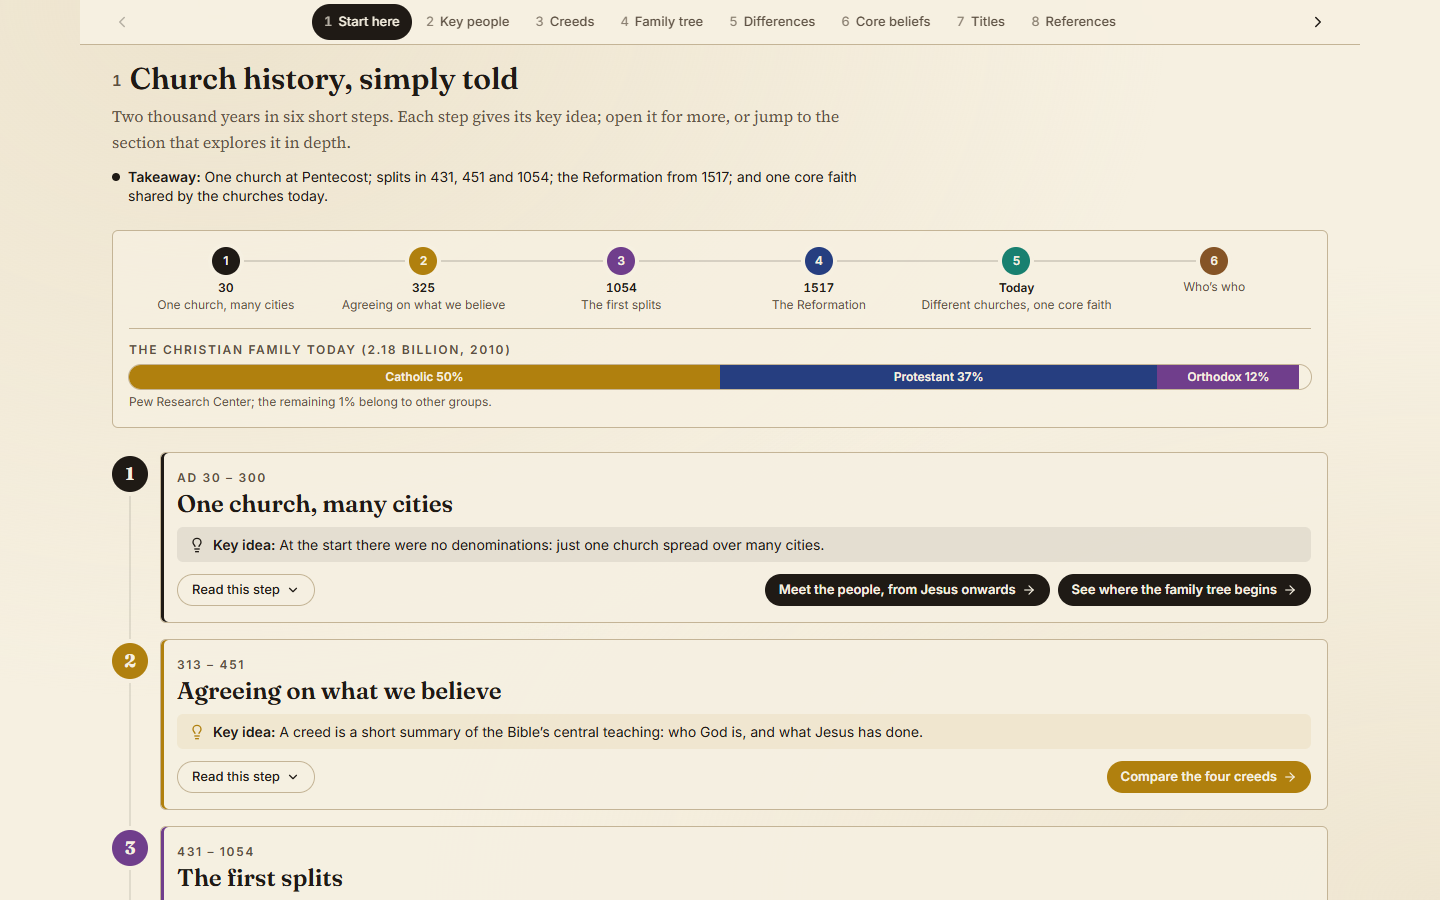
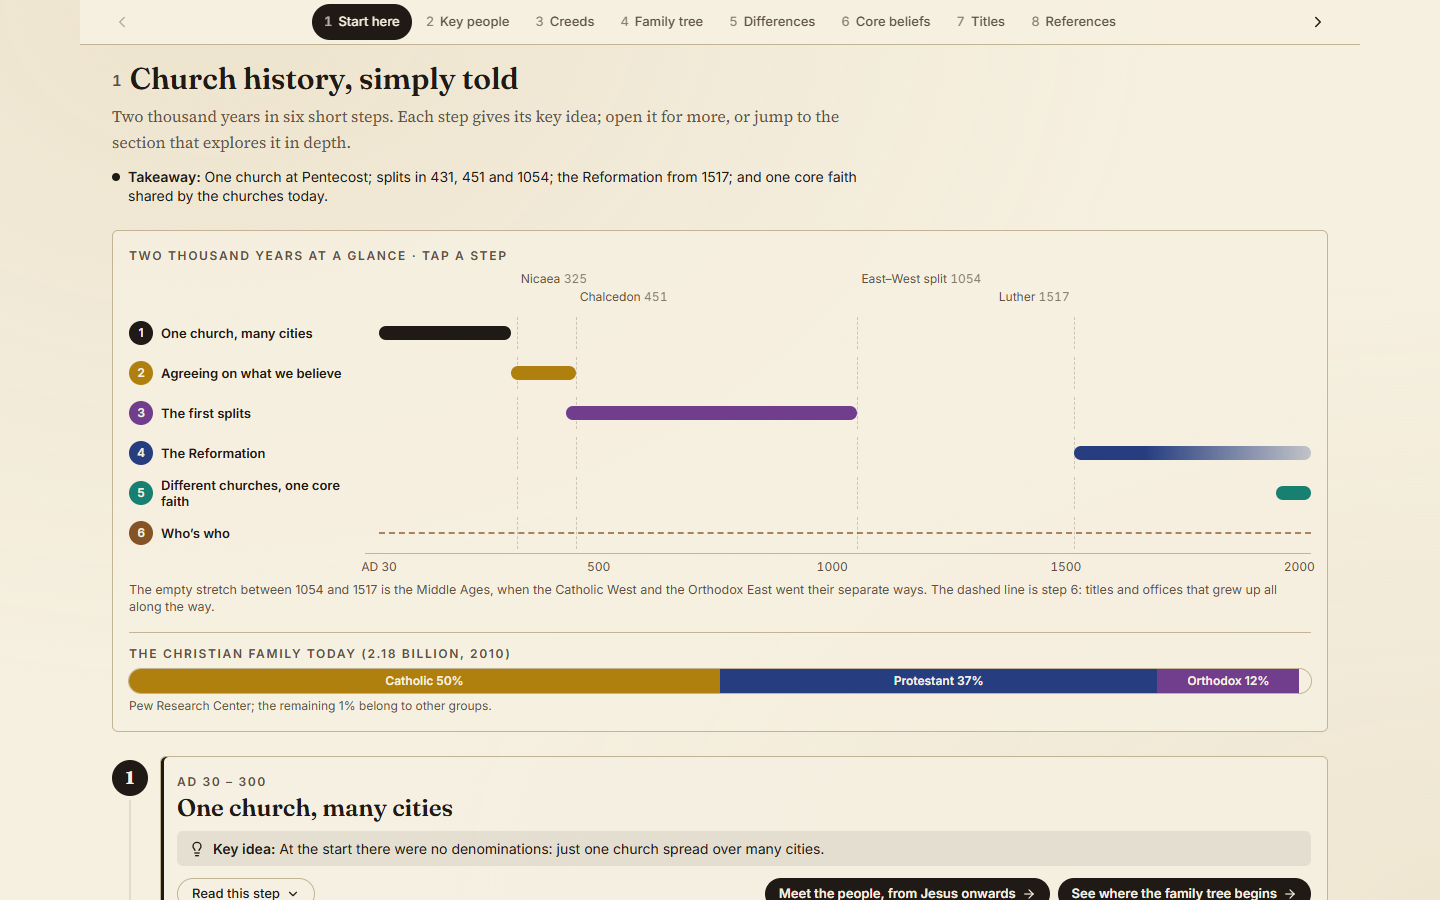
Start here: two thousand years at a glance; smooth in-page links; tidy old tab wording
- Replace the row of numbered dots with a time-scaled chart of the six steps (milestones marked,
  the Middle Ages gap visible); tapping a step scrolls to it and opens it
- Every in-page link (#canon, #people …) scrolls smoothly (instantly with reduced motion) and opens
  any fold it names; deep links such as #creeds-read and #benchmarks unchanged
- Home and intro links point at the exact section or fold; intro names follow the sections
  (Key people, Chapters & verses); drop the unused step year field; ViewTabs now documented as Characters-only

diff --git a/src/components/history/StartHere.tsx b/src/components/history/StartHere.tsx
@@ -1,7 +1,8 @@
-import { useState } from 'react';
+import { useCallback, useState } from 'react';
 import { ArrowRight, ChevronDown, Lightbulb } from 'lucide-react';
 import { cssColor } from '../../lib/characters';
 import { RefText } from '../ScriptureRef';
+import { useOpenTarget } from '../sections';
 
 /**
  * Church history told simply, as a short path of steps. Each step shows its era, title and key idea;
@@ -9,7 +10,8 @@ import { RefText } from '../ScriptureRef';
  */
 interface Step {
   era: string;
-  year: string;
+  /** When it happened, for the chart at the top: [from, to] (AD). */
+  span: [number, number];
   title: string;
   css: string;
   body: string[];
@@ -22,7 +24,7 @@ interface Step {
 const STEPS: Step[] = [
   {
     era: 'AD 30 – 300',
-    year: '30',
+    span: [30, 313],
     title: 'One church, many cities',
     css: '--ink',
     body: [
@@ -38,7 +40,7 @@ const STEPS: Step[] = [
   },
   {
     era: '313 – 451',
-    year: '325',
+    span: [313, 451],
     title: 'Agreeing on what we believe',
     css: '--role-king',
     body: [
@@ -56,7 +58,7 @@ const STEPS: Step[] = [
   },
   {
     era: '431 – 1054',
-    year: '1054',
+    span: [431, 1054],
     title: 'The first splits',
     css: '--role-priest',
     body: [
@@ -73,7 +75,7 @@ const STEPS: Step[] = [
   },
   {
     era: '1517 onwards',
-    year: '1517',
+    span: [1517, 2025],
     title: 'The Reformation',
     css: '--greek',
     body: [
@@ -90,7 +92,7 @@ const STEPS: Step[] = [
   },
   {
     era: 'Today',
-    year: 'Today',
+    span: [1950, 2025],
     title: 'Different churches, one core faith',
     css: '--rel-mentor',
     body: [
@@ -105,7 +107,7 @@ const STEPS: Step[] = [
   },
   {
     era: 'Along the way',
-    year: '',
+    span: [30, 2025],
     title: 'Who’s who',
     css: '--role-patriarch',
     body: [
@@ -127,6 +129,7 @@ const FAMILIES = [
 function StepCard({ s, i, go }: { s: Step; i: number; go: (id: string) => void }) {
   const [open, setOpen] = useState(false);
   const bodyId = `step-${i + 1}-body`;
+  useOpenTarget([`step-${i + 1}`], useCallback(() => setOpen(true), []));
   return (
     <article className="rounded-md border border-rule bg-paper/90 px-4 py-4" style={{ boxShadow: `inset 3px 0 0 ${cssColor(s.css)}` }}>
       <div className="eyebrow">
@@ -192,32 +195,114 @@ function StepCard({ s, i, go }: { s: Step; i: number; go: (id: string) => void }
   );
 }
 
+/** The milestones marked across the chart. */
+const MARKS = [
+  { y: 325, label: 'Nicaea', row: 0 },
+  { y: 451, label: 'Chalcedon', row: 1 },
+  { y: 1054, label: 'East–West split', row: 0 },
+  { y: 1517, label: 'Luther', row: 1 },
+];
+const AXIS_FROM = 0,
+  AXIS_TO = 2025;
+const ax = (y: number) => ((y - AXIS_FROM) / (AXIS_TO - AXIS_FROM)) * 100;
+
+/**
+ * Two thousand years at a glance: each step as a bar on one real time scale, so the reader sees
+ * how long each period lasted, where they overlap, and the gap of the Middle Ages. Tap a step to
+ * jump to it and open it.
+ */
+function CourseTimeline({ go }: { go: (id: string) => void }) {
+  // Phones: each title above a full-width bar; wider screens: titles in a column beside the bars.
+  const grid = 'grid grid-cols-1 gap-x-3 sm:grid-cols-[14rem_1fr]';
+  return (
+    <div>
+      <h3 className="eyebrow mb-2">Two thousand years at a glance · tap a step</h3>
+      {/* milestones above the bars */}
+      <div className={`${grid} hidden sm:grid`}>
+        <span />
+        <div className="relative h-10 font-sans text-[12px] leading-none text-ink-soft">
+          {MARKS.map((m) => (
+            <span
+              key={m.y}
+              className={`absolute whitespace-nowrap ${ax(m.y) > 70 ? '-translate-x-full pr-1 text-right' : 'pl-1'}`}
+              style={{ left: `${ax(m.y)}%`, top: m.row * 18 }}
+            >
+              {m.label} <span className="tabular-nums opacity-75">{m.y}</span>
+            </span>
+          ))}
+        </div>
+      </div>
+      <ol className="relative">
+        {STEPS.map((s, i) => {
+          const [y0, y1] = s.span;
+          const l = ax(y0),
+            w = Math.max(ax(y1) - l, 1.5);
+          const along = s.era === 'Along the way';
+          return (
+            <li key={s.title}>
+              <button
+                onClick={() => go(`step-${i + 1}`)}
+                aria-label={`Step ${i + 1}: ${s.title}, ${s.era}`}
+                className={`focus-ring group ${grid} min-h-10 w-full items-center gap-y-1 rounded-md py-1 text-left hover:bg-ink/[0.04]`}
+              >
+                <span className="flex items-center gap-2">
+                  <span className="flex h-6 w-6 shrink-0 items-center justify-center rounded-full font-sans text-[12px] font-bold text-paper" style={{ background: cssColor(s.css) }}>
+                    {i + 1}
+                  </span>
+                  <span className="min-w-0 font-sans text-[13px] font-semibold leading-tight group-hover:underline">{s.title}</span>
+                </span>
+                <span className="relative block h-6">
+                  {/* the milestones, continued down through the bars */}
+                  {MARKS.map((m) => (
+                    <span key={m.y} aria-hidden className="absolute inset-y-[-4px] border-l border-dashed border-ink/20" style={{ left: `${ax(m.y)}%` }} />
+                  ))}
+                  {along ? (
+                    <span className="absolute top-1/2 h-0 -translate-y-1/2 border-t-2 border-dashed" style={{ left: `${l}%`, width: `${w}%`, borderColor: cssColor(s.css, 0.7) }} />
+                  ) : (
+                    <span
+                      className="absolute top-1/2 h-3.5 -translate-y-1/2 rounded-full"
+                      style={{
+                        left: `${l}%`,
+                        width: `${w}%`,
+                        background: y1 >= 2025 && y0 < 1900 ? `linear-gradient(90deg, ${cssColor(s.css)} 30%, ${cssColor(s.css, 0.25)})` : cssColor(s.css),
+                      }}
+                    />
+                  )}
+                </span>
+              </button>
+            </li>
+          );
+        })}
+      </ol>
+      {/* the scale */}
+      <div className={grid}>
+        <span className="hidden sm:block" />
+        <div className="relative h-5 border-t border-rule font-sans text-[12px] tabular-nums text-ink-soft">
+          {[30, 500, 1000, 1500, 2000].map((t, i) => (
+            <span key={t} className={`absolute top-1 -translate-x-1/2 whitespace-nowrap ${i % 2 && t !== 1000 ? 'hidden sm:block' : ''}`} style={{ left: `${ax(t)}%` }}>
+              {t === 30 ? 'AD 30' : t}
+            </span>
+          ))}
+        </div>
+      </div>
+      <p className="mt-2 font-sans text-[12.5px] leading-snug text-ink-soft sm:hidden">
+        Dashed lines: {MARKS.map((m) => `${m.label} ${m.y}`).join(' · ')}.
+      </p>
+      <p className="mt-2 font-sans text-[12.5px] leading-snug text-ink-soft">
+        The empty stretch between 1054 and 1517 is the Middle Ages, when the Catholic West and the Orthodox East went their
+        separate ways. The dashed line is step 6: titles and offices that grew up all along the way.
+      </p>
+    </div>
+  );
+}
+
 export function StartHere({ go }: { go: (tab: string) => void }) {
   return (
     <div className="space-y-6">
 
       {/* The path at a glance */}
       <div className="rounded-md border border-rule bg-paper/80 px-4 py-4">
-        <ol className="relative grid grid-cols-6 gap-1">
-          <span aria-hidden className="absolute left-[8%] right-[8%] top-[13px] h-0.5 bg-ink/15" />
-          {STEPS.map((s, i) => (
-            <li key={s.title} className="relative flex flex-col items-center text-center">
-              <a
-                href={`#step-${i + 1}`}
-                onClick={(e) => {
-                  e.preventDefault();
-                  document.getElementById(`step-${i + 1}`)?.scrollIntoView({ behavior: 'smooth', block: 'start' });
-                }}
-                className="focus-ring flex h-7 w-7 items-center justify-center rounded-full font-sans text-[12px] font-bold text-paper ring-4 ring-paper"
-                style={{ background: cssColor(s.css) }}
-              >
-                {i + 1}
-              </a>
-              <span className="mt-1 font-sans text-[12px] font-semibold tabular-nums">{s.year}</span>
-              <span className="hidden font-sans text-[12px] leading-tight text-ink-soft sm:block">{s.title}</span>
-            </li>
-          ))}
-        </ol>
+        <CourseTimeline go={go} />
         <div className="mt-4 border-t border-rule pt-3">
           <div className="eyebrow mb-1.5">The Christian family today (2.18 billion, 2010)</div>
           <div className="flex h-6 overflow-hidden rounded-full ring-1 ring-rule">
@@ -238,7 +323,7 @@ export function StartHere({ go }: { go: (tab: string) => void }) {
       {/* The steps */}
       <ol className="relative space-y-4">
         {STEPS.map((s, i) => (
-          <li key={s.title} id={`step-${i + 1}`} className="relative scroll-mt-32 sm:pl-12">
+          <li key={s.title} id={`step-${i + 1}`} className="section-anchor relative sm:pl-12">
             <span
               aria-hidden
               className="absolute left-0 top-1 hidden h-9 w-9 items-center justify-center rounded-full font-display text-lg font-bold text-paper sm:flex"

diff --git a/src/components/sections.tsx b/src/components/sections.tsx
@@ -21,6 +21,20 @@ export function openFold(id: string) {
   window.dispatchEvent(new CustomEvent(OPEN_FOLD, { detail: id }));
 }
 
+/** Open something (a fold, a Start here step) when a link or jump names one of these ids. */
+export function useOpenTarget(ids: string[], open: () => void) {
+  const key = ids.join(' ');
+  useEffect(() => {
+    const on = (e: Event) => {
+      if (key.split(' ').includes((e as CustomEvent<string>).detail)) open();
+    };
+    window.addEventListener(OPEN_FOLD, on);
+    return () => window.removeEventListener(OPEN_FOLD, on);
+  }, [key, open]);
+}
+
+const reducedMotion = () => window.matchMedia('(prefers-reduced-motion: reduce)').matches;
+
 /** Scroll to a section or fold by id, opening the fold (and any fold around it) first. */
 export function jumpTo(id: string, { smooth = false, replace = true } = {}) {
   window.dispatchEvent(new CustomEvent(OPEN_FOLD, { detail: id }));
@@ -29,26 +43,41 @@ export function jumpTo(id: string, { smooth = false, replace = true } = {}) {
     requestAnimationFrame(() => {
       const el = document.getElementById(id);
       if (!el) return;
-      el.scrollIntoView({ block: 'start', behavior: smooth ? 'smooth' : 'auto' });
+      el.scrollIntoView({ block: 'start', behavior: smooth && !reducedMotion() ? 'smooth' : 'auto' });
       if (replace) history.replaceState(null, '', `#${id}`);
     }),
   );
 }
 
-/** Follow the hash on load and on in-page links, so old tab URLs land on their section. */
+/**
+ * Follow the hash on load, so old tab URLs (#canon, #creeds-read …) land on their section or open
+ * their fold; and make every in-page link (href="#…") scroll smoothly to its target, opening any fold.
+ */
 export function useSectionHash() {
   useEffect(() => {
-    const go = () => {
+    const go = (smooth: boolean) => {
       const id = decodeURIComponent(window.location.hash.slice(1));
-      if (id) jumpTo(id, { replace: false });
+      if (id) jumpTo(id, { replace: false, smooth });
     };
-    go();
+    go(false);
     // Fonts and late layout can move things a little; settle once more.
-    const t = window.setTimeout(go, 350);
-    window.addEventListener('hashchange', go);
+    const t = window.setTimeout(() => go(false), 350);
+    const onHash = () => go(true);
+    const onClick = (e: MouseEvent) => {
+      if (e.defaultPrevented || e.button !== 0 || e.metaKey || e.ctrlKey || e.shiftKey || e.altKey) return;
+      const a = (e.target as Element | null)?.closest?.('a[href^="#"]') as HTMLAnchorElement | null;
+      const id = a ? decodeURIComponent(a.getAttribute('href')!.slice(1)) : '';
+      // The skip link keeps its own behaviour (it moves keyboard focus into the page).
+      if (!id || id === 'main' || !document.getElementById(id)) return;
+      e.preventDefault();
+      jumpTo(id, { smooth: true });
+    };
+    window.addEventListener('hashchange', onHash);
+    document.addEventListener('click', onClick);
     return () => {
       window.clearTimeout(t);
-      window.removeEventListener('hashchange', go);
+      window.removeEventListener('hashchange', onHash);
+      document.removeEventListener('click', onClick);
     };
   }, []);
 }

diff --git a/src/components/PageIntros.tsx b/src/components/PageIntros.tsx
@@ -118,7 +118,8 @@ export function MapIntro() {
 }
 
 export function HistoryIntro() {
-  const tab = (id: string, label: string) => (
+  /** A link to a numbered section further down this page. */
+  const jump = (id: string, label: string) => (
     <a href={`#${id}`} className="font-sans text-[13px] font-semibold underline decoration-rule underline-offset-2 hover:decoration-ink">
       {label}
     </a>
@@ -143,8 +144,8 @@ export function HistoryIntro() {
           kicker: 'Branches & traditions',
           body: (
             <>
-              {tab('tree', 'Family tree')}: the great schisms and reformations, from Pentecost to today. {tab('traditions', 'Differences')}:
-              compare the Catholic, Eastern Orthodox, Oriental Orthodox and Protestant families on ten questions. {tab('titles', 'Titles')}: who’s who, from pope to pastor.
+              {jump('people', 'Key people')}: the apostles, church fathers, reformers and missionaries, from Jesus to today. {jump('tree', 'Family tree')}: the great schisms and reformations, from Pentecost to today. {jump('traditions', 'Differences')}:
+              compare the Catholic, Eastern Orthodox, Oriental Orthodox and Protestant families on ten questions. {jump('titles', 'Titles')}: who’s who, from pope to pastor.
             </>
           ),
         },
@@ -154,7 +155,7 @@ export function HistoryIntro() {
           kicker: 'Creeds & boundaries',
           body: (
             <>
-              {tab('creeds', 'Creeds')}: four historic creeds, side by side and line by line. {tab('compare', 'Core beliefs')}: the families of
+              {jump('creeds', 'Creeds')}: four historic creeds, side by side and line by line. {jump('compare', 'Core beliefs')}: the families of
               churches that share that faith, their member churches, and how other movements differ.
             </>
           ),
@@ -167,7 +168,7 @@ export function HistoryIntro() {
             <>
               How the text was copied, divided into chapters and verses, and translated into the world’s languages:{' '}
               <a href="languages.html#verses" className="font-sans text-[13px] font-semibold underline decoration-rule underline-offset-2 hover:decoration-ink">
-                Scrolls to verses
+                Chapters & verses
               </a>{' '}
               and{' '}
               <a href="languages.html#translations" className="font-sans text-[13px] font-semibold underline decoration-rule underline-offset-2 hover:decoration-ink">

diff --git a/src/components/HomePage.tsx b/src/components/HomePage.tsx
@@ -27,7 +27,8 @@ const FEATURES: Feature[] = [
     blurb: 'How the 66 books were written in Hebrew, Aramaic and Greek, copied by hand, numbered into chapters and verses, and translated.',
     points: ['Every book by its original language', 'From ancient scrolls to chapter and verse', 'Translations from the Septuagint to today'],
     tries: [
-      { label: 'Which books contain Aramaic?', href: 'languages.html' },
+      { label: 'Which books contain Aramaic?', href: 'languages.html#languages' },
+      { label: 'Which books are in the Bible?', href: 'languages.html#canon' },
       { label: 'How the Bible was translated', href: 'languages.html#translations' },
     ],
   },
@@ -67,6 +68,7 @@ const FEATURES: Feature[] = [
     points: ['A family tree from Pentecost to today', 'Catholic, Orthodox and Protestant families compared', 'The four creeds, side by side and line by line'],
     tries: [
       { label: 'Start here: the story simply told', href: 'history.html#start' },
+      { label: 'From Jesus to today: key people', href: 'history.html#people' },
       { label: 'Compare the church families', href: 'history.html#traditions' },
       { label: 'Core beliefs compared', href: 'history.html#compare' },
     ],
@@ -76,9 +78,9 @@ const FEATURES: Feature[] = [
 const QUESTIONS: { q: string; href: string; css: string }[] = [
   { q: 'Who were the ancestors of Jesus?', href: 'characters.html?person=jesus', css: '--lineage' },
   { q: 'How far did Paul travel on his journeys?', href: 'map.html#journeys', css: '--lineage' },
-  { q: 'Why is part of Daniel in Aramaic?', href: 'languages.html', css: '--aramaic' },
+  { q: 'Why is part of Daniel in Aramaic?', href: 'languages.html#languages', css: '--aramaic' },
   { q: 'How do Catholics and Baptists differ on baptism?', href: 'history.html#traditions', css: '--role-king' },
-  { q: 'How do Jehovah’s Witnesses’ beliefs differ from the creeds?', href: 'history.html#compare', css: '--rel-rival' },
+  { q: 'How do Jehovah’s Witnesses’ beliefs differ from the creeds?', href: 'history.html#benchmarks', css: '--rel-rival' },
   { q: 'Where did chapter and verse numbers come from?', href: 'languages.html#verses', css: '--greek' },
 ];
 

diff --git a/src/components/ViewTabs.tsx b/src/components/ViewTabs.tsx
@@ -9,8 +9,8 @@ export interface ViewTab<T extends string> {
 }
 
 /**
- * The one style for switching views within a page (Languages, Characters, Church History):
- * rounded tabs, the current one filled in ink.
+ * Switches between the Characters views (timeline, network, directory): rounded tabs, the current one
+ * filled in ink. (The Bible and Church History are single scrolling pages with numbered sections.)
  */
 export function ViewTabs<T extends string>({
   label,

diff --git a/README.md b/README.md
@@ -97,7 +97,7 @@ The Church History page works like a short course on one scrolling page: seven n
 
 ![The family tree of the church](docs/screenshots/history-tree.png)
 
-- **Start here.** Church history simply told, in six steps (one church; agreeing on the creeds; the first splits; the Reformation; different churches, one core faith; who's who), each showing its key idea at a glance; open a step for its story, simple definitions and passages, or jump to the section that goes deeper.
+- **Start here.** Opens with two thousand years at a glance: each step as a bar on one time scale (from AD 30 to today), with Nicaea, Chalcedon, the East–West split and Luther marked, so you can see how long each period lasted, where they overlap and the gap of the Middle Ages; tap a step to jump to it and open it. Then church history simply told, in six steps (one church; agreeing on the creeds; the first splits; the Reformation; different churches, one core faith; who's who), each showing its key idea at a glance; open a step for its story, simple definitions and passages, or jump to the section that goes deeper.
 - **Key people.** From Jesus to today, in eight eras: Jesus and the apostles, the early church fathers, councils and creeds, the early Middle Ages, the Middle Ages, the Reformation, revival and mission, and the world church. Each era is a timeline of lifespans (66 people, with martyrs marked) and councils, persecutions and events. Teachers whose teaching the church rejected (Marcion, Arius, Pelagius, Nestorius and others) are shown dashed. Tap a person for who they were and how they pointed to Jesus, often in their own words, with each quotation linked to its primary text. The section is framed by Hebrews 12:1–2, and Start here now ends with a short "Looking to Jesus" note.
 
 ![From Jesus to today: key people by era](docs/screenshots/history-people.png)
